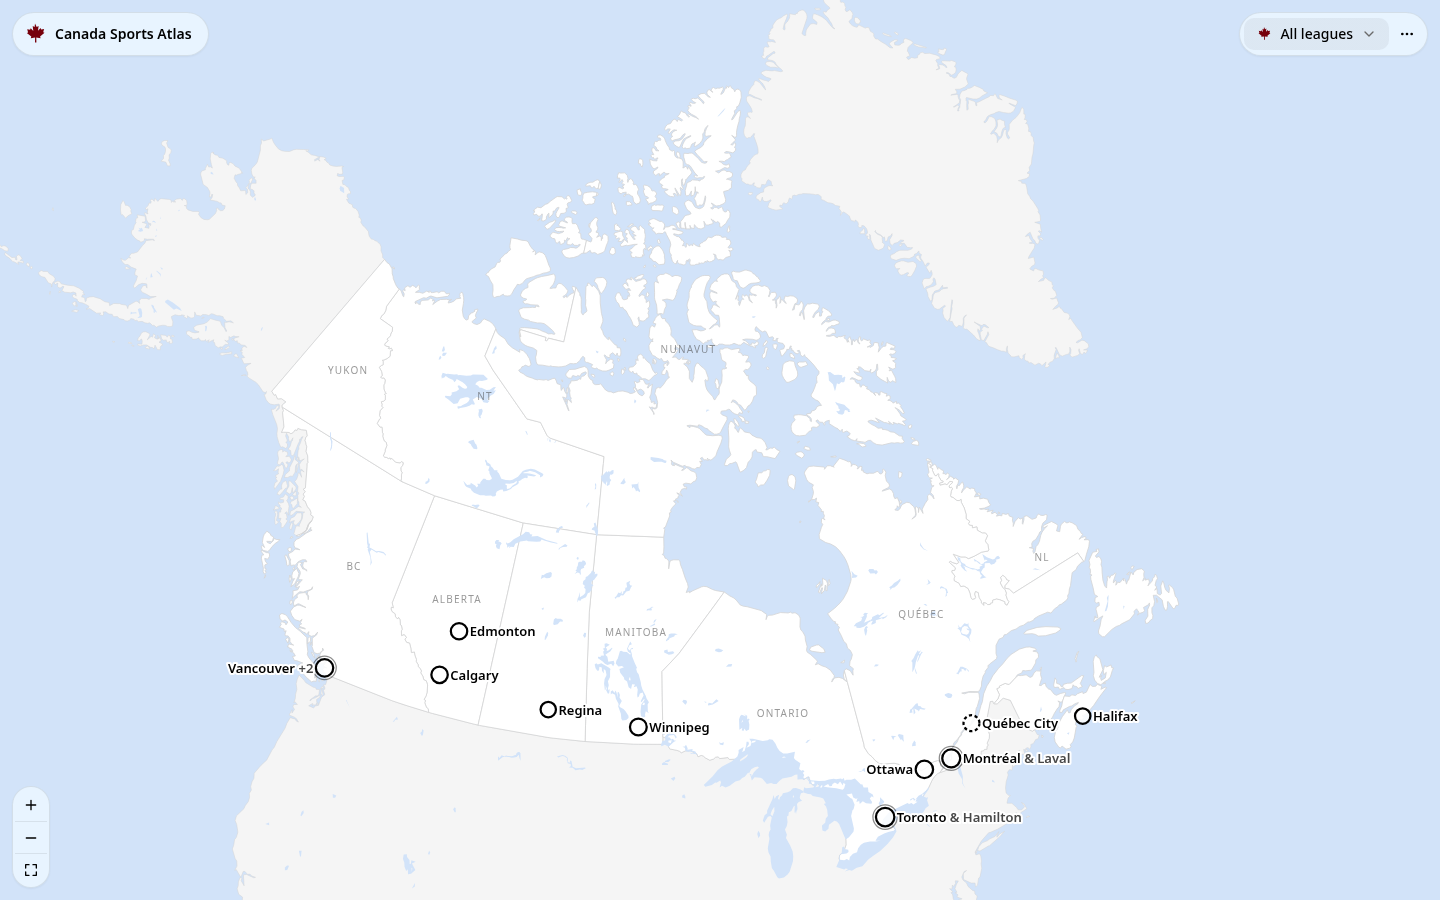
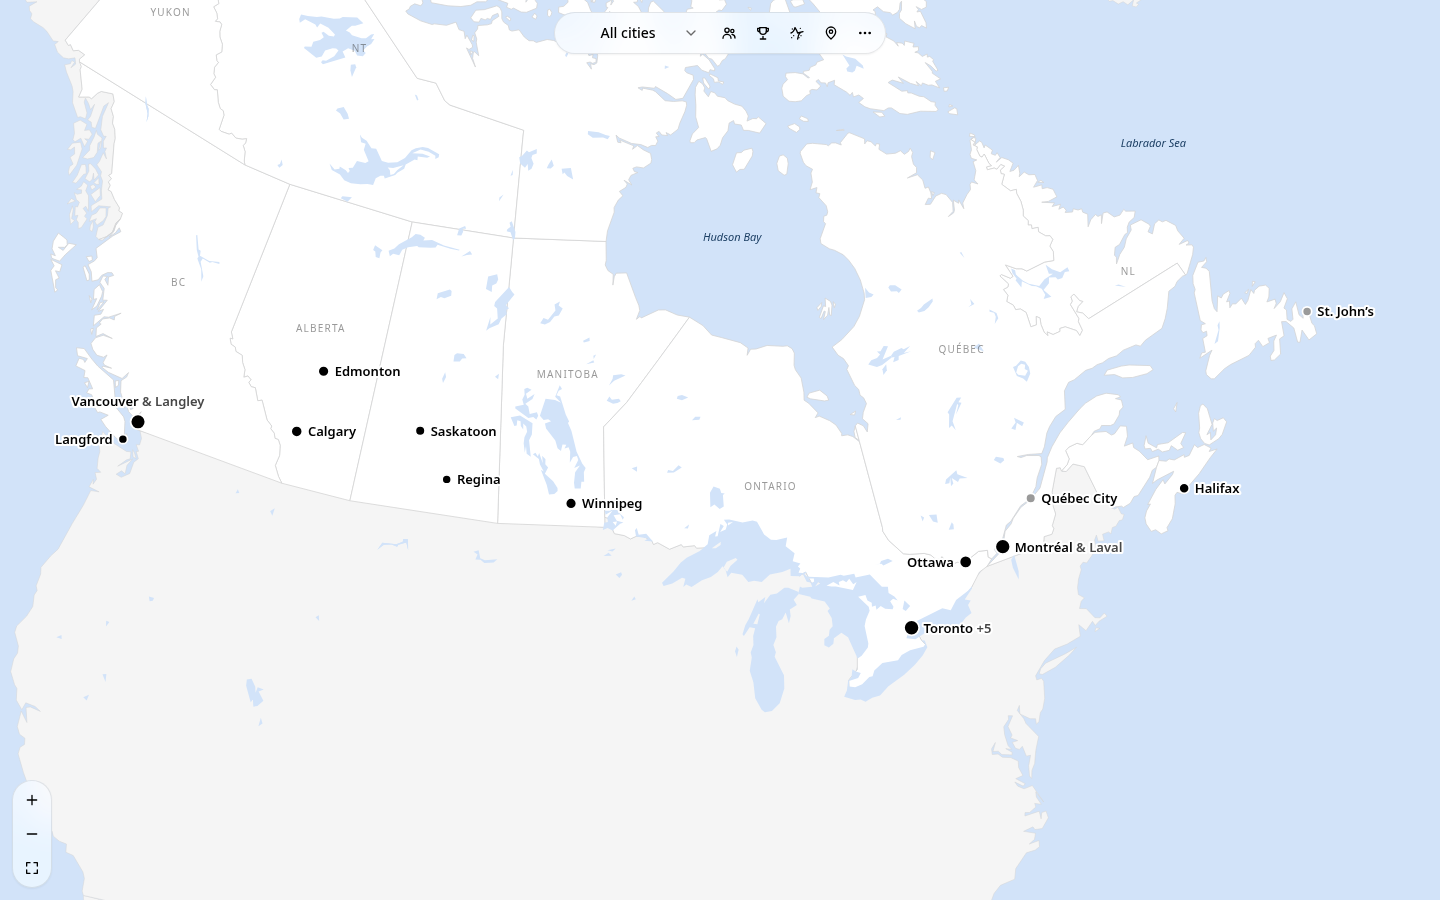
README: fresh screenshots and current features; Pages deploys on push
- README rewritten for the site as it is now (layers, panels, takeover,
  3D venues, coverage), with 12 new screenshots and the public URL.
- pages.yml deploys to GitHub Pages on every push to main (and on demand),
  running the tests first.
- LICENSE and credits cover public/media (Commons photos, historical logos).
- fetch-media.py user agent points at the repo instead of an email address.

diff --git a/scripts/fetch-media.py b/scripts/fetch-media.py
@@ -1,6 +1,6 @@
 """Resumable, rate-limit-friendly fetch of team photos, venue photos and historical logos."""
 import json, time, urllib.request, urllib.parse, urllib.error, os, re, html, sys
-UA='CanadaSportsMapBuilder/0.1 (personal project; github.com/latxh; latxhman@gmail.com)'
+UA='CanadianSportsAtlas/0.1 (personal project; https://github.com/latxh/canada-sports-map)'
 API_GAP, DL_GAP = 2.5, 1.5
 def get(url, binary=False):
     for a in range(8):

diff --git a/README.md b/README.md
@@ -1,41 +1,67 @@
 # Canadian Sports Atlas
 
-An interactive map of Canadian professional sports. Every NHL, NBA, MLB, MLS, CFL, CPL, NLL, CEBL, PWHL, WNBA, NSL and Call of Duty League team that has played in Canada, current or former, is on it, along with its venues, championships and identity history. Built with the [Astryx](https://github.com/facebook/astryx) design system.
+An interactive map of Canadian professional sports: every NHL, NBA, MLB, MLS, CFL, CPL, NLL, CEBL, PWHL, WNBA, NSL and Call of Duty League team that has played in Canada, current or former, with its venues, championships and history. Built with the [Astryx](https://github.com/facebook/astryx) design system.
 
-![Desktop map](docs/desktop-map.png)
+**Live site: [latxh.github.io/canada-sports-map](https://latxh.github.io/canada-sports-map/)**
+
+![The map of Canada with every sports city](docs/desktop-map.png)
 
 ## Features
 
-- **Map of Canada.** The map fills the screen and opens framed on the band of sports cities across southern Canada, with the rest of the world filled in around it. Zoom in and Canada gains a finer coastline, rivers and lakes, nearby towns, and the names of seas, lakes, mountain ranges and islands. Closing a panel returns to the view you jumped from. The selected city is a blue dot with a blue pulse. Each sports city is a solid dot with its name: dark for cities with active teams, light grey for cities that only had teams in the past, blue when selected. The dot and the name are one control: hovering either lifts the dot and underlines the name. With a league picked, a city with one team in that league opens straight to the team. Nearby cities (Montréal and Laval, Vancouver and its suburbs, Toronto and Hamilton) merge into a cluster until you zoom in. Pan, zoom, or use the round controls to frame all the cities again.
-- **Floating controls.** Frosted-glass buttons float over the map: the league picker and menu in a pill centred at the top (the league list opens below it), and round zoom buttons bottom left.
-- **Floating panel.** Click a city to open its details in a frosted-glass panel that floats over the right side of the map. The header is one line: the city or team name and a close button, plus a back chevron when you opened a team from its city.
-- **Menu.** Appearance (light, dark or system), Share (the native share sheet on phones and tablets, otherwise copies the current view's link), Credits, and a link to the author.
-- **City overview.** *Teams* (logo tiles with league and years), a *Trophy Cabinet* with one trophy per title, and *Venues*: a dropdown of the venues current teams play in, each with its 3D model (or photo) and four cards for year opened, capacity, surface and roof. Wikipedia links sit at the bottom as full-width buttons.
-- **Trophy cabinet.** Cities and teams show one trophy per championship with its year: Stanley Cup, Larry O'Brien Trophy, Commissioner's Trophy, Philip F. Anschutz Trophy (MLS Cup), Grey Cup, North Star Cup, NLL Cup, CEBL championship trophy, Walter Cup, WNBA championship trophy and Diana B. Matheson Cup. The trophies are original illustrations drawn from reference photos of the real ones.
-- **League filter.** A fixed-width dropdown shows all cities (🇨🇦) or just one league (NHL, NBA, MLB, MLS, CFL, CPL, NLL, CEBL, PWHL, WNBA, NSL or CDL). The choice is kept in the URL so a view can be shared.
-- **Map layers and tools.** Four round toggles sit between the league picker and the menu; one mode is on at a time. The first three are layers drawn as living ordered-dither patterns that ripple out from each city and twinkle (still with reduced motion):
-  - *Population*: soft orange fields around each of Canada's 152 metro areas and agglomerations, sized by 2021 Census population (Statistics Canada), with values on the largest.
-  - *Championships*: glinting gold fields around each city, sized by the titles its teams have won (follows the league filter), with the count.
-  - *Closest team*: every spot in Canada coloured by its nearest team (the nearest sports city's top team under All cities, or the nearest team in the chosen league), densest near each city. Hover or tap for the team and the distance.
-  - *Drop a pin*: tap anywhere (or use your location) and arcs fly from the pin to every city on the map, green for the nearest through yellow to red for the farthest, with a soft light pulsing along all of them together; a card in the top-left lists the nearest cities and the farthest one in great-circle kilometres. Kept in the URL (`?pin=lat,lon`).
-- **Logo takeover.** When a team is the only current Canadian team in its league (the Raptors, the Blue Jays, the Tempo), filtering to its league or opening its page fills the map of Canada with its logo.
-- **Official logos.** Team and league logos come from the files their Wikipedia articles use (see Credits).
-- **Team pages.** A hero card (logo, league, years, city), then the *Trophy Cabinet*, *Venues* (every home the team has had), carousels of logos through the years, home and away uniforms and the rink, court, field or pitch for each era, a photo carousel from Wikimedia Commons, and link buttons to Wikipedia and logo and court archives.
-- **3D models of all 24 current venues.** Every stadium and arena a current team plays in has its own hand-built, low-poly model, drawn to real dimensions from OpenStreetMap footprints and reference photos, so models are to scale with each other: Rogers Centre's roof panels slide and swing open, BC Place's centre gathers into its hub under 36 masts, the Saddledome keeps its saddle, TD Place its timber veil, Princess Auto Stadium its arches and Wanderers Grounds its shipping containers. Fields switch markings for the sport you are looking at (for example soccer or CFL at BMO Field). Models can be viewed full screen; former venues, and venues used only by the NLL, CEBL, PWHL, WNBA and NSL, are described but not modelled yet.
-- **Works on phones.** On small screens the details panel becomes a draggable bottom sheet.
-- Keyboard-accessible map markers and no violations from axe-core.
+### The map
 
-| City overview | Team page with trophy cabinet | Mobile |
-| --- | --- | --- |
-| ![City](docs/desktop-city-3d.png) | ![Team](docs/desktop-identity.png) | ![Mobile](docs/mobile-city.png) |
+- **Canada, full screen.** The map opens on the band of sports cities across southern Canada, with the rest of the world filled in around it. Zoom in for a finer coastline, rivers, lakes, nearby towns and the names of seas, lakes, mountain ranges and islands.
+- **City dots.** Each sports city is a solid dot with its name: dark for cities with active teams, light grey for cities whose teams are all gone, blue (with a pulse) when selected. Nearby cities merge into one dot until you zoom in.
+- **League filter.** One dropdown shows all cities (🇨🇦) or a single league. With a league picked, a city that has one team in it opens straight to that team.
+- **Logo takeover.** When a team is the only current Canadian team in its league (the Raptors, the Blue Jays, the Tempo), its page fills Canada with its logo.
+- **Shareable views.** The league, layer and pin are kept in the URL, and Share opens the native share sheet on phones.
 
-### Stadium models
+| City panel with a 3D venue | Logo takeover |
+| --- | --- |
+| ![Toronto: teams, trophy cabinet and venues](docs/desktop-city.png) | ![The Raptors logo filling Canada](docs/takeover.png) |
+
+### Map layers
+
+Four round toggles sit beside the league filter; one is on at a time. The first three are living, ordered-dither patterns that ripple out from each city and twinkle (they hold still if you prefer reduced motion), drawn as part of the map so they move with it as you pan and zoom.
+
+- **Population**: every one of Canada's 152 metro areas and agglomerations, sized by its 2021 Census population.
+- **Championships**: gold around each city, sized by the titles its teams have won, with the count.
+- **Closest team**: every spot in Canada coloured by its nearest team. Hover or tap for the team and the distance.
+- **Drop a pin**: tap anywhere (or use your location) and arcs fly to every city on the map, green for the nearest through yellow to red for the farthest, with the nearest cities and the farthest one listed in kilometres.
+
+| Closest team (NHL) | Population |
+| --- | --- |
+| ![Canada coloured by its nearest NHL team](docs/layer-closest.png) | ![Population around each metro area](docs/layer-population.png) |
+| **Championships** | **Drop a pin** |
+| ![Championships around each city](docs/layer-championships.png) | ![Arcs from a pin in Regina to every city](docs/layer-pin.png) |
+
+### City and team panels
+
+- **City**: its teams as logo tiles (league and years underneath), a trophy cabinet with one trophy per title, and its active venues in a dropdown, each with a 3D model (or a photo) and cards for year opened, capacity, surface and roof.
+- **Team**: a hero card, the trophy cabinet, every venue the team has called home, carousels of logos, home and away uniforms and playing surfaces for each era, a photo carousel, and links to Wikipedia and logo archives. Opened from a city, it has a back button to that city.
+- **Trophies**: original illustrations of all twelve championship trophies, drawn from photos of the real ones.
+
+| Team page | Uniforms, rinks and photos |
+| --- | --- |
+| ![The Montréal Canadiens' page](docs/desktop-team.png) | ![Carousels on the Canadiens' page](docs/desktop-team-carousels.png) |
+
+### 3D venues
+
+Each of the 24 stadiums and arenas that NHL, NBA, MLB, MLS, CFL and CPL teams play in today has its own hand-built, low-poly model, drawn to scale from OpenStreetMap footprints and reference photos. Rogers Centre's roof opens and closes, BC Place's roof gathers under its 36 masts, and fields switch markings for the sport you're looking at. Models open full screen.
 
 ![The 24 current venues as low-poly 3D models](docs/stadium-models.jpg)
 
+### Everywhere
+
+Light and dark mode, a draggable bottom sheet on phones, keyboard-accessible map markers, and no axe-core violations.
+
+| Dark mode | Phone | Phone, closest team |
+| --- | --- | --- |
+| ![Vancouver in dark mode](docs/desktop-dark.png) | ![Montréal on a phone](docs/mobile-city.png) | ![Closest team on a phone](docs/mobile-closest.png) |
+
 ## Coverage
 
-The dataset was reviewed in November 2026 and covers 82 teams in 20 cities:
+The data was reviewed in November 2026 and covers 82 teams in 20 cities:
 
 | League | Active | Former |
 | --- | --- | --- |
@@ -67,37 +93,42 @@ Requires Node 22.13 or later.
 
 ```
 src/
-  data/            # typed dataset: leagues, cities, venues, teams/*.ts (+ integrity tests)
+  data/            # typed dataset: leagues, cities, venues, teams/*.ts, population, media (+ integrity tests)
   data/geo/        # simplified Natural Earth TopoJSON (built by scripts/build-geo.mjs)
-  components/      # SportsMap (d3-geo + d3-zoom), panels, filters, credits
-  visuals/         # original SVG illustrations: badges, uniforms, playing surfaces
+  components/      # SportsMap (d3-geo + d3-zoom), DitherLayer, map tools, panels, credits
+  visuals/         # original SVG illustrations: trophies, badges, uniforms, playing surfaces
   three/           # 3D: kit/ (low-poly parts), models/ (one per current venue), viewer (lazy-loaded)
+public/
+  logos/           # current team and league logos (from Wikipedia)
+  media/           # historical logos and photos (from Wikipedia and Wikimedia Commons)
 ```
 
 ### Editing data
 
-Each team is one object in `src/data/teams/*.ts`, typed by `src/data/types.ts`. Add a venue to `src/data/venues.ts` and a city to `src/data/cities.ts`. Then run `npm test`: the tests check that every reference resolves, that years and statuses agree, and that well-known title counts are right.
+Each team is one object in `src/data/teams/*.ts`, typed by `src/data/types.ts`. Add a venue to `src/data/venues.ts` and a city to `src/data/cities.ts`, then run `npm test`: it checks that every reference resolves, that years and statuses agree, that well-known title counts are right, and that every logo and photo file exists.
 
 ### Editing 3D models
 
-Each current venue has a model function in `src/three/models/<city>.ts`, built from the parts in `src/three/kit/` (stepped stands, bowls, canopies, roof shells, trusses, masts, light poles, trees). Sizes are in metres. When a team moves into a new home, add its model there and its id to `src/three/modelIds.ts`; `npm test` checks that exactly the venues of current teams have a model and that each one builds within the triangle and draw-call budget.
+Each current venue has a model function in `src/three/models/<city>.ts`, built from the parts in `src/three/kit/`. Sizes are in metres. When a team moves into a new home, add its model there and its id to `src/three/modelIds.ts`; `npm test` checks that exactly the venues of current teams in those six leagues have a model, and that each builds within the triangle and draw-call budget.
 
-### Rebuilding the map
+### Rebuilding the map and media
 
-`scripts/build-geo.mjs` explains how to download the Natural Earth source files and regenerate `src/data/geo/canada.topo.json` (base map) and `src/data/geo/canada-detail.topo.json` (the zoomed-in layer, loaded after the map is up).
+- `scripts/build-geo.mjs` explains how to download the Natural Earth source files and regenerate the base map and the zoomed-in detail layer.
+- `scripts/fetch-media.py` downloads historical logos and freely licensed photos from Wikipedia and Wikimedia Commons, and `scripts/build-media.py` turns them into `public/media/` and `src/data/media.ts`.
 
 ### Deploying
 
-`.github/workflows/pages.yml` publishes the site to GitHub Pages when you run it manually. Pages needs a public repository (or a paid plan for private ones). Turn it on under **Settings → Pages → Source: GitHub Actions**.
+Every push to `main` runs CI (type-check, tests, build) and `.github/workflows/pages.yml` publishes the site to GitHub Pages.
 
 ## Credits
 
 - **[Wikipedia](https://en.wikipedia.org/)**: team, venue and championship facts, paraphrased (CC BY-SA 4.0). Every team and venue links to its article.
-- **Logos**: `public/logos/` holds the logo files used on each team's and league's Wikipedia article. `src/data/logos.ts` records each file page and its licence. Most are non-free trademarks, used on Wikipedia under fair use.
-- **[SportsLogos.net](https://www.sportslogos.net/)**: reference for logo and uniform history. The app links to its league archives. SportsLogos.net asks automated tools not to collect its content, so no images or data were copied from it.
+- **Logos**: the files each team's and league's Wikipedia article uses. `src/data/logos.ts` and `src/data/media.ts` record each file's page and licence. Most are non-free trademarks, used on Wikipedia under fair use.
+- **[Wikimedia Commons](https://commons.wikimedia.org/)**: team and venue photos, all freely licensed and credited under each photo and in the app's Credits.
+- **[Statistics Canada](https://www150.statcan.gc.ca/t1/tbl1/en/tv.action?pid=9810000301)**: 2021 Census population for the Population layer.
 - **[Natural Earth](https://www.naturalearthdata.com/)**: countries, provinces, coastlines, lakes, rivers, towns and geography names (public domain).
-- **[OpenStreetMap](https://www.openstreetmap.org/copyright)**: venue footprints, stand layouts and dimensions used as references for the 3D models (© OpenStreetMap contributors, ODbL).
-- **[Wikimedia Commons](https://commons.wikimedia.org/)** photos: used only as visual references for the 3D models; none are included.
+- **[OpenStreetMap](https://www.openstreetmap.org/copyright)**: venue footprints and dimensions used as references for the 3D models (© OpenStreetMap contributors, ODbL).
+- **[SportsLogos.net](https://www.sportslogos.net/)**: linked for full logo histories. SportsLogos.net asks automated tools not to collect its content, so nothing was copied from it.
 - **[Astryx](https://github.com/facebook/astryx)**, **[three.js](https://threejs.org/)** / **[React Three Fiber](https://r3f.docs.pmnd.rs/)**, **[d3](https://d3js.org/)**, **[TopoJSON](https://github.com/topojson/topojson)**.
 
-Where there's no official logo for an era, the badge is an original illustration in that era's colours, and so are the uniforms and playing surfaces. Making this repository public would mean publishing official team logos, which are trademarks of their owners. Team names, logos and uniforms are trademarks of their owners. This is an unofficial fan project and is not affiliated with any league or team.
+Trophies, uniforms, playing surfaces and the badges for eras without a logo file are original illustrations. Team names, logos and uniforms are trademarks of their owners. This is an unofficial fan project, not affiliated with or endorsed by any league or team.
